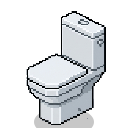
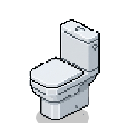
feat(virtual-house): adjust microwave and toilet tile alignment and add roof facade door

Changed region(s): [[0.1875, 0.0625, 0.8438, 1.0]]

diff --git a/src/components/wedding/PublicVirtualHouse.tsx b/src/components/wedding/PublicVirtualHouse.tsx
@@ -63,7 +63,7 @@ const FURNITURE_ICONS: Record<string, string> = {
 
 const SCENE_WIDTH = 1220;
 const SCENE_HEIGHT = (9 + 6) * (TILE_H / 2) + 260; // 740
-const ASSET_VERSION = "39";
+const ASSET_VERSION = "40";
 
 const STRUCTURAL_ITEMS = ["foundation", "floor_coverings", "walls", "painting", "doors_windows", "roof", "electric", "plumbing"];
 
@@ -758,9 +758,10 @@ export default function PublicVirtualHouse({ weddingId, onOpenCheckout }: Public
                   })}
                   {Array.from({ length: 10 }).map((_, x) => {
                     const iso = getIsoCoords(x, 6, mapOriginX, mapOriginY);
+                    const facadeImg = x === 5 ? "wall_ne_door.png" : "wall_ne_plain.png";
                     return (
                       <div key={`facade-sw-${x}`} style={{ position: "absolute", left: `${iso.x}px`, top: `${iso.y + TILE_H - WALL_HEIGHT - 32}px`, width: "64px", height: "192px" }}>
-                        <img src={`/assets/iso/wall_ne_plain.png?v=${ASSET_VERSION}`} className="w-full h-full object-contain" alt="" />
+                        <img src={`/assets/iso/${facadeImg}?v=${ASSET_VERSION}`} className="w-full h-full object-contain" alt="" />
                       </div>
                     );
                   })}

diff --git a/src/utils/isometric.ts b/src/utils/isometric.ts
@@ -66,7 +66,7 @@ export const FURNITURE_SIZES: Record<string, FurnitureFootprint> = {
 export const FURNITURE_PIXEL_SIZES: Record<string, FurniturePixelSize> = {
   fridge: { w: 128, h: 160 },
   stove: { w: 128, h: 128 },
-  microwave: { w: 72, h: 54, offsetX: 28, offsetY: -64 },
+  microwave: { w: 72, h: 54, offsetX: 16, offsetY: -48 },
   sink_counter: { w: 192, h: 128 },
   dining_table: { w: 192, h: 128 },
   dining_chair: { w: 128, h: 128 },
@@ -82,14 +82,14 @@ export const FURNITURE_PIXEL_SIZES: Record<string, FurniturePixelSize> = {
   wardrobe: { w: 192, h: 186, offsetX: 0, offsetY: -8 },
   dresser: { w: 192, h: 128 },
   vanity: { w: 128, h: 128 },
-  toilet: { w: 128, h: 128 },
+  toilet: { w: 128, h: 128, offsetX: -2, offsetY: -4 },
   bathroom_sink: { w: 128, h: 160, offsetX: 0, offsetY: -4 },
   shower: { w: 128, h: 186 },
   washing_machine: { w: 128, h: 128 },
   dryer: { w: 128, h: 128 },
   laundry_sink: { w: 128, h: 128 },
   coffee_maker: { w: 64, h: 56, offsetX: 36, offsetY: -62 },
-  air_fryer: { w: 64, h: 56, offsetX: 32, offsetY: -62 },
+  air_fryer: { w: 64, h: 56, offsetX: 24, offsetY: -52 },
   robot_vacuum: { w: 64, h: 48, offsetX: 32, offsetY: -8 },
   generic: { w: 128, h: 128, offsetY: 0 },
 };

diff --git a/src/components/wedding/DashboardVirtualHouse.tsx b/src/components/wedding/DashboardVirtualHouse.tsx
@@ -41,7 +41,7 @@ const ROOM_DISPLAY = {
 
 const SCENE_WIDTH = 1220;
 const SCENE_HEIGHT = (9 + 6) * (TILE_H / 2) + 260; // 740
-const ASSET_VERSION = "39";
+const ASSET_VERSION = "40";
 
 const STRUCTURAL_ITEMS = ["foundation", "floor_coverings", "walls", "painting", "doors_windows", "roof", "electric", "plumbing"];
 
@@ -570,9 +570,10 @@ export default function DashboardVirtualHouse({ weddingId }: DashboardVirtualHou
                 })}
                 {Array.from({ length: 10 }).map((_, x) => {
                   const iso = getIsoCoords(x, 6, mapOriginX, mapOriginY);
+                  const facadeImg = x === 5 ? "wall_ne_door.png" : "wall_ne_plain.png";
                   return (
                     <div key={`facade-sw-${x}`} style={{ position: "absolute", left: `${iso.x}px`, top: `${iso.y + TILE_H - WALL_HEIGHT - 32}px`, width: "64px", height: "192px" }}>
-                      <img src={`/assets/iso/wall_ne_plain.png?v=${ASSET_VERSION}`} className="w-full h-full object-contain" alt="" />
+                      <img src={`/assets/iso/${facadeImg}?v=${ASSET_VERSION}`} className="w-full h-full object-contain" alt="" />
                     </div>
                   );
                 })}
